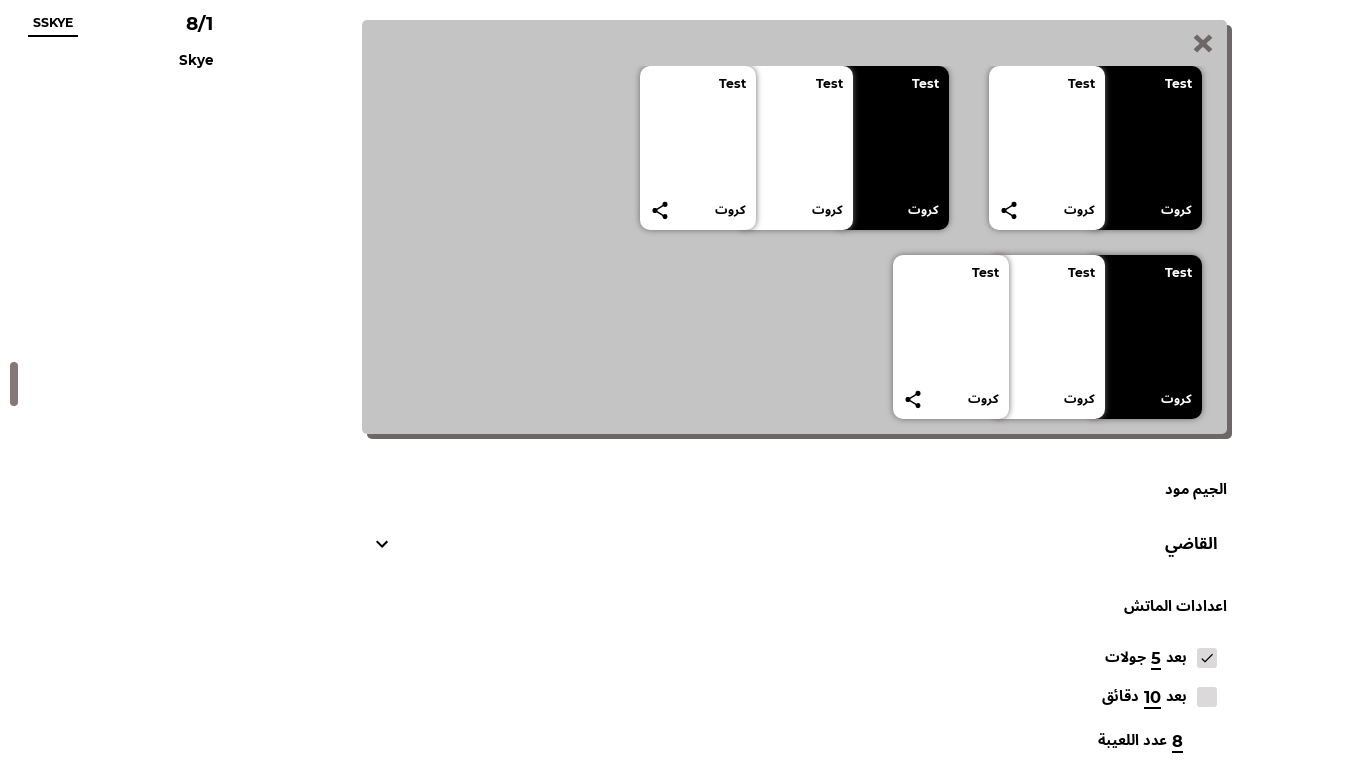
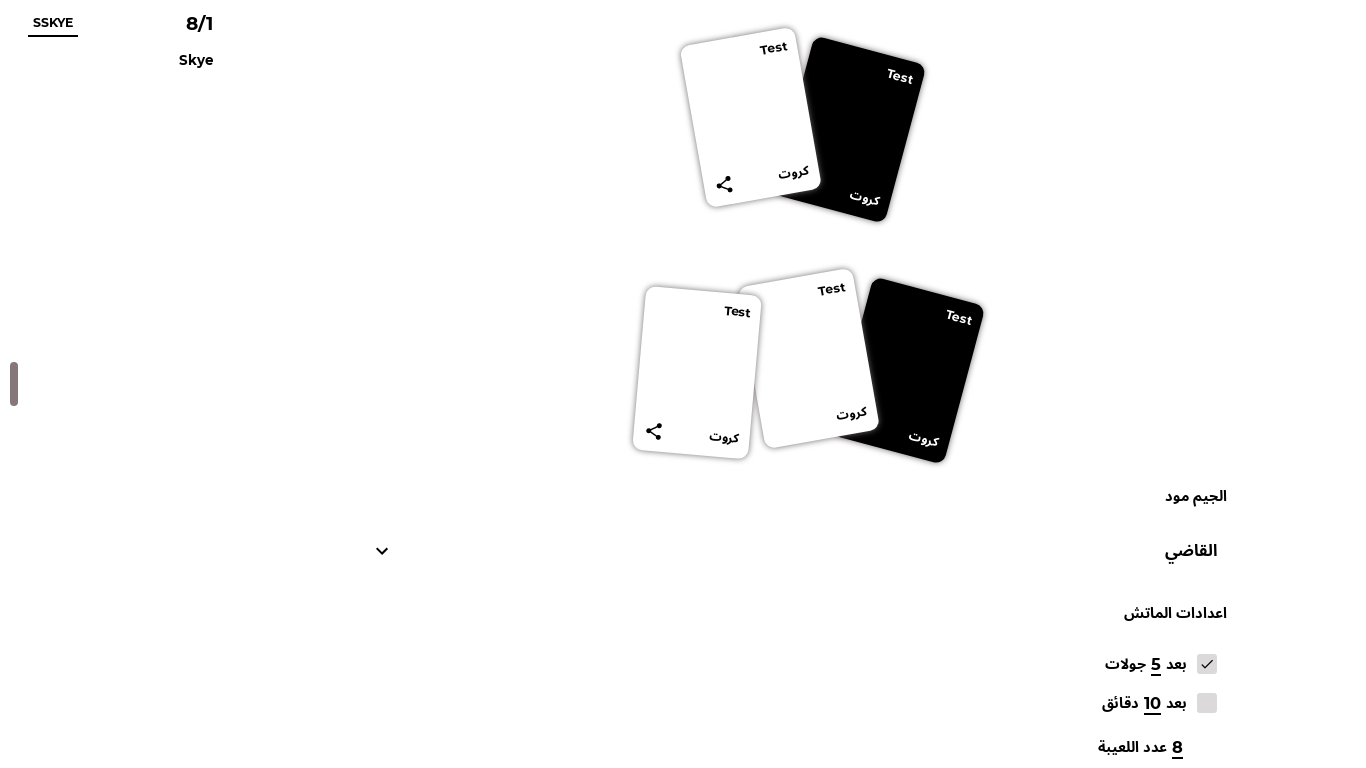
updated the styles for match reports

diff --git a/src/components/matchReport.js b/src/components/matchReport.js
@@ -1,7 +1,5 @@
 import React from 'react';
 
-import CloseIcon from 'mdi-react/CloseThickIcon';
-
 import getTheme from '../colors.js';
 
 import { createStyle } from 'flcss';
@@ -76,28 +74,24 @@ class MatchReport extends StoreComponent
     
     return (
       <div className={ styles.container }>
-        <CloseIcon className={ styles.close } onClick={ this.clearEntries }/>
-
-        <div className={ styles.entries }>
+        {
+          this.state.entries.slice(0, 2).map((entry, i) =>
           {
-            this.state.entries.map((entry, i) =>
-            {
-              return <div key={ i } className={ styles.entry }>
+            return <div key={ i } className={ styles.entry }>
+              {
+                entry.map((card, i) =>
                 {
-                  entry.map((card, i) =>
-                  {
-                    return <Card
-                      key={ i }
-                      shareEntry={ (entry.length - 1 === i) ? () => this.shareEntry(entry) : undefined }
-                      owner={ (card.type === 'white') ? i18n('airtegal-cards') : undefined }
-                      type={ card.type }
-                      content={ card.content }/>;
-                  })
-                }
-              </div>;
-            })
-          }
-        </div>
+                  return <Card
+                    key={ i }
+                    shareEntry={ (entry.length - 1 === i) ? () => this.shareEntry(entry) : undefined }
+                    owner={ (card.type === 'white') ? i18n('airtegal-cards') : undefined }
+                    type={ card.type }
+                    content={ card.content }/>;
+                })
+              }
+            </div>;
+          })
+        }
       </div>
     );
   }
@@ -105,48 +99,41 @@ class MatchReport extends StoreComponent
 
 const styles = createStyle({
   container: {
-    backgroundColor: colors.handBackground,
-    
-    margin: '20px 25px',
-    padding: '5px 0',
-    borderRadius: '5px',
-
-    boxShadow: `5px 5px 0px ${colors.greyText}`
-  },
-
-  close: {
-    cursor: 'pointer',
-    fill: colors.greyText,
-    
-    width: 'calc(22px + 0.25vw + 0.25vh)',
-    height: 'calc(22px + 0.25vw + 0.25vh)',
-    
-    margin: '5px 10px'
-  },
-
-  entries: {
-    display: 'flex',
-    flexWrap: 'wrap',
-    
-    overflow: 'hidden',
-    margin: '0 5px -15px 5px'
+    height: 'auto',
+    maxHeight: '50vh',
+    margin: '5vh 0'
   },
 
   entry: {
+    flexBasis: '100%',
+
     display: 'flex',
     flexWrap: 'wrap',
+    alignItems: 'center',
+    justifyContent: 'center',
 
     direction: locale.direction,
-    margin: '0px 30px',
+    margin: '0px 5vw',
 
-    '> *': {
-      zIndex: 0,
-      margin: '0 -10px 25px -10px'
+    ':not(:last-child)': {
+      margin: '0px 5vw 10vh'
+    },
+
+    '> * > [type="black"]': {
+      transform: 'rotate(15deg) translate(0, 10px)'
+    },
+
+    '> * > [type="white"]': {
+      transform: 'rotate(-10deg) translate(15px, 0px)'
+    },
+
+    '> *:nth-child(3) > [type="white"]': {
+      transform: 'rotate(5deg) translate(20px, 10px)'
     },
 
     '> * > [type]': {
-      boxShadow: `0px 0px 6px 0px ${colors.greyText}`,
-      overflow: 'hidden'
+      overflow: 'hidden',
+      boxShadow: `0px 0px 6px 0px ${colors.greyText}`
     },
 
     '> * > [type] > *': {

diff --git a/src/index.js b/src/index.js
@@ -105,13 +105,9 @@ createStore();
 // show a loading screen until the promises resolve
 ReactDOM.render(<Loading splash/>, placeholder);
 
-// set the endpoint to the development server
-if (process.env.NODE_ENV === 'development')
-{
-  process.env.API_ENDPOINT = 'http://localhost:3000';
-}
 // set the endpoint to the production server
-else if (process.env.NODE_ENV === 'production')
+// istanbul ignore if
+if (process.env.NODE_ENV === 'production')
 {
   process.env.API_ENDPOINT = 'https://api.airtegal.me';
 

diff --git a/src/components/roomState.js b/src/components/roomState.js
@@ -96,8 +96,8 @@ class RoomState extends StoreComponent
         this.countdown = Date.now() + time;
   
         // interval are disabled in end-to-end testing
-        // istanbul ignore next
-  
+        
+        // istanbul ignore if
         if (process.env.NODE_ENV !== 'test')
         {
           // set a 1s interval

diff --git a/webpack.config.dev.js b/webpack.config.dev.js
@@ -23,7 +23,8 @@ module.exports = {
   },
   plugins: [
     new DefinePlugin({
-      'process.env.NODE_ENV': JSON.stringify(process.env.NODE_ENV)
+      'process.env.NODE_ENV': JSON.stringify(process.env.NODE_ENV),
+      'process.env.API_ENDPOINT': JSON.stringify('http://localhost:3000')
     })
   ],
   devServer: {

diff --git a/src/components/shareOverlay.js b/src/components/shareOverlay.js
@@ -49,10 +49,7 @@ export function shareEntry(black, white)
       title: 'Airtegal',
       text: i18n('hashtag-airtegal'),
       url: shareURL
-    }).catch(() =>
-    {
-      //
-    });
+    }).catch(e => e);
   }
   else
   {
